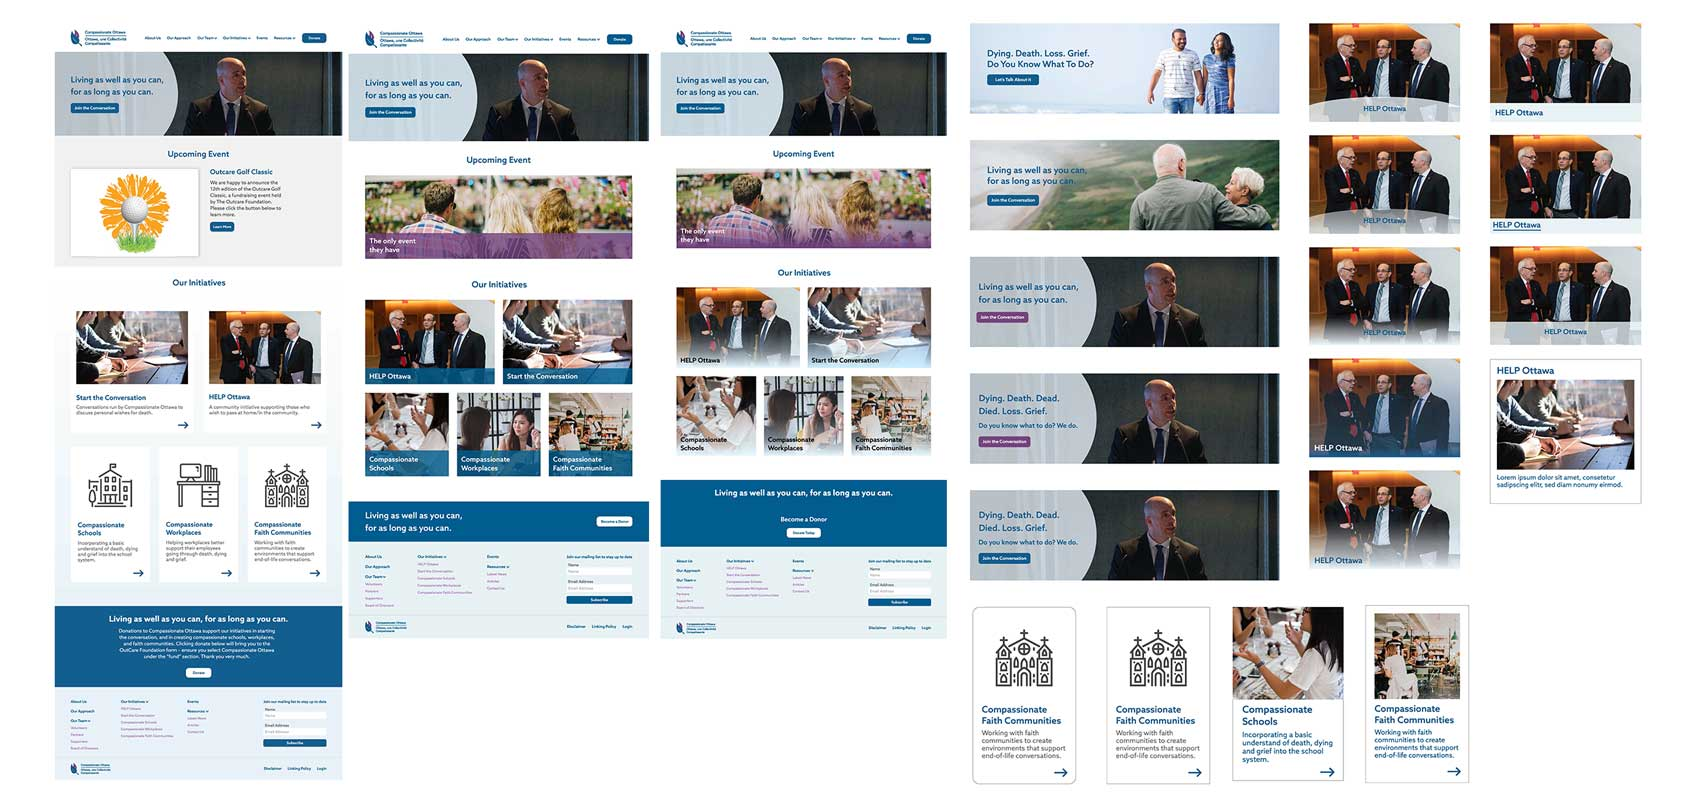
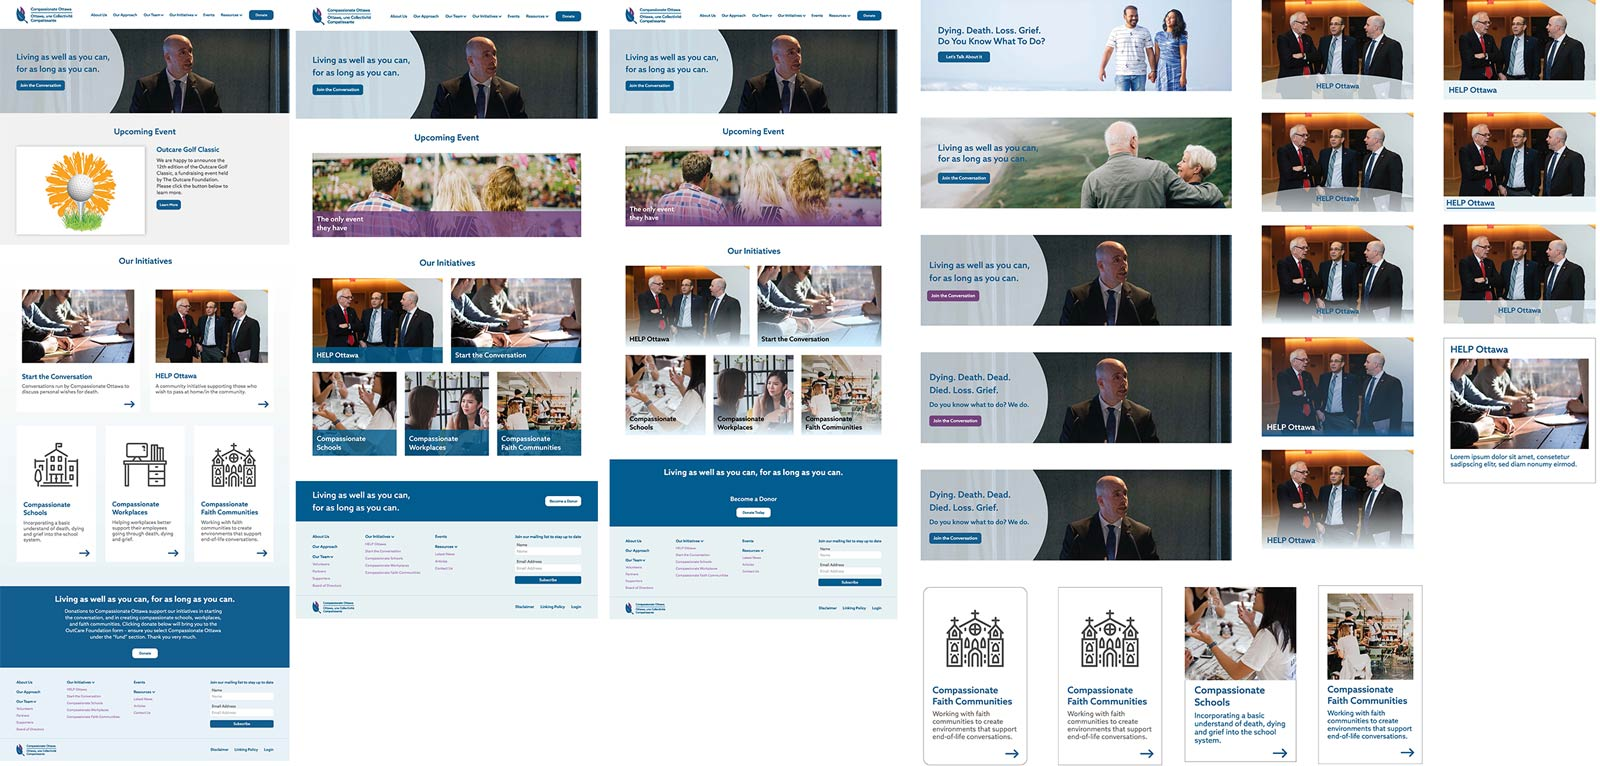
Finish the layout of the compassionate ottawa page

diff --git a/compassionate-ottawa.html b/compassionate-ottawa.html
@@ -37,11 +37,12 @@ t-image: "images/compassionate-ottawa/on-mockup.jpg"
         <hr class="push-0">
       </div>
       <p class="milli push grey-text">The website portion of the project was done with the help of two teammates. The first thing we did was change up the navigation and make a new sitemap.</p>
-      <h2 class="kilo push-0">Sitemap</h2>
+      <h2 class="kilo push-1-8">Sitemap</h2>
       <img class="img-flex push" src="/images/compassionate-ottawa/sitemap.jpg" alt="">
       <p class="milli push grey-text">My teammates were responsible for rewriting the content for the new Compassionate Ottawa website and once they were done, I made the website wireframes to match Compassionate Ottawa’s new brand. Their old website was overly text heavy, lacked images, and lacked white space. I wanted to breathe some personality into the new website with icons, and happier/more personal imagery. I also incorporated more white space so that it’s not overwhelming or confusing when someone goes to the site.</p>
-      <h2 class="kilo push-0">Wireframes Process</h2>
-      <img class="img-flex push" src="/images/compassionate-ottawa/extras.jpg" alt="">
+      <h2 class="kilo push-1-8">Wireframes Process</h2>
+      <img class="img-flex push-1-4" src="/images/compassionate-ottawa/extras.jpg" alt="">
+      <p class="micro push grey-text">These are just some of the things that were made in the process of brainstorming.</p>
       <h2 class="kilo push-1-8">Final Wireframes</h2>
       <img class="img-flex push" src="/images/compassionate-ottawa/wireframes.jpg" alt="">
       <h2 class="kilo push-0">Challenges</h2>

diff --git a/vector-illustration.html b/vector-illustration.html
@@ -27,10 +27,10 @@ sitename: Megan Smith's Portfolio
       <p class="milli grey-text">For my vector painting I chose to do Kid Cudi. I’m a big fan of Kid Cudi and his music so I had wanted to do a portrait of him for a while and this was the perfect opportunity for me to do so. The colours used in the illustration represent not only the bright and colourful aura of him and his music, but they're also some of the main colours that are used on his latest album Kids See Ghosts. </p>
       <p class="milli grey-text">The first step of this project was to paint out strokes on paper and then vectorize them in Illustrator.</p>
       <h2 class="kilo">Process</h2>
+      <img class="img-flex push" src="/images/vector-illustration/.jpg" alt="">
       <h2 class="kilo">Final</h2>
       <h2 class="kilo push-0">Challenges</h2>
       <p class="milli push-0 grey-text">I had to restart this illustration 2 times before the completed version. The first two times I didn’t get the right details in the anatomy of the face and it didn’t really look like Kid Cudi. I also submitted this project without any of the text, so it was really plain. Considering there was so much detail in the painting, I had to find a way to make the background match.</p>
-      <p class="milli italic push-0"></p>
       <ul class="list-group-inline text-center milli push-0 pad-t">
         <li class="island-1-8"><a href="/compassionate-ottawa/">Previous</a></li>
         <li>/</li>
